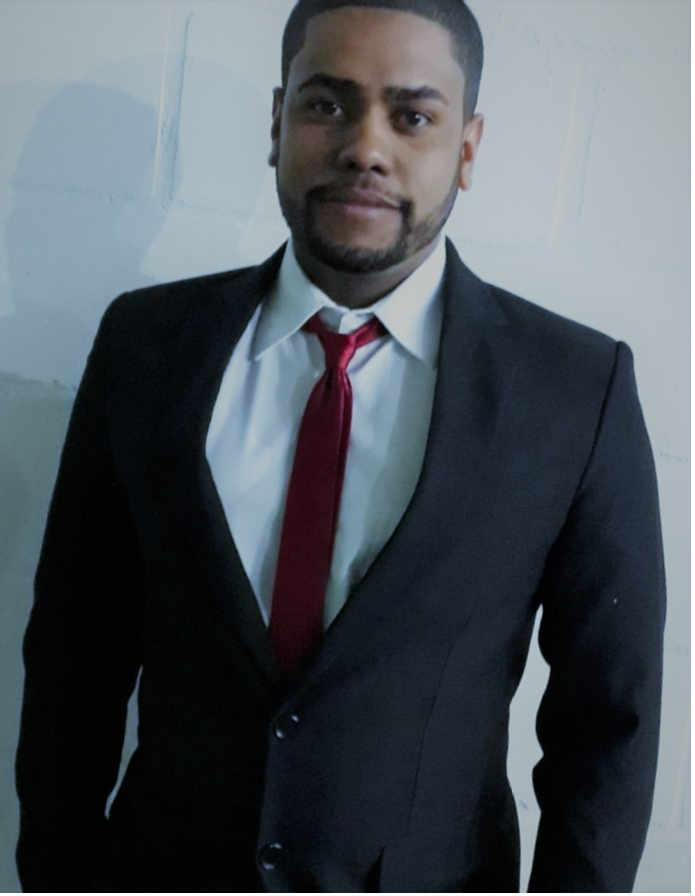
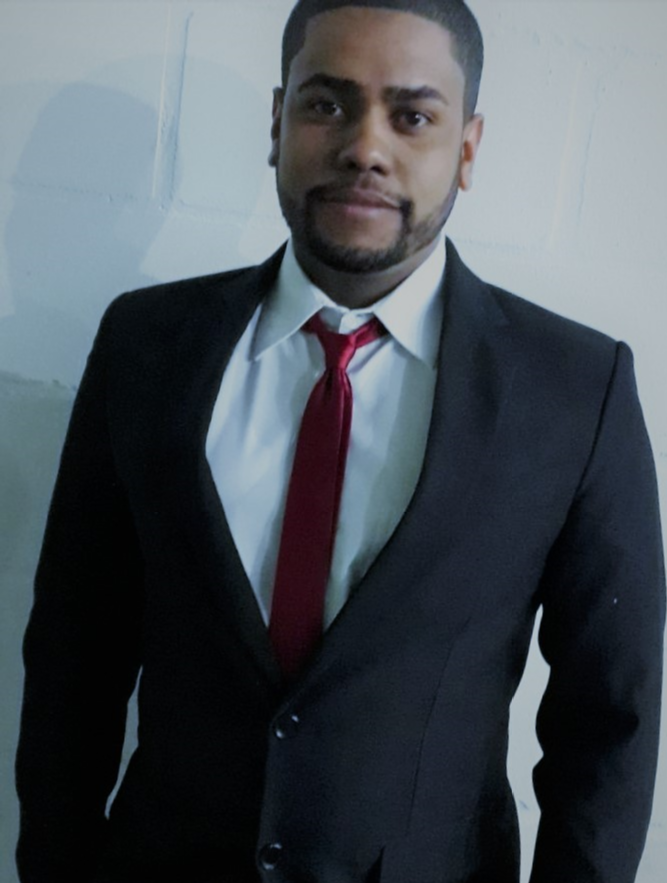
Auto-generated commit

diff --git a/index.csr.html b/index.csr.html
@@ -26,5 +26,5 @@
 <style>:root{--fa-style-family-brands:"Font Awesome 6 Brands";--fa-font-brands:normal 400 1em/1 "Font Awesome 6 Brands"}@font-face{font-family:"Font Awesome 6 Brands";font-style:normal;font-weight:400;font-display:block;src:url("./media/fa-brands-400-Q3XCMWHQ.woff2") format("woff2"),url("./media/fa-brands-400-R2XQZCET.ttf") format("truetype")}:root{--fa-font-regular:normal 400 1em/1 "Font Awesome 6 Free"}@font-face{font-family:"Font Awesome 6 Free";font-style:normal;font-weight:400;font-display:block;src:url("./media/fa-regular-400-QSNYFYRT.woff2") format("woff2"),url("./media/fa-regular-400-XUOPSR7E.ttf") format("truetype")}:root{--fa-style-family-classic:"Font Awesome 6 Free";--fa-font-solid:normal 900 1em/1 "Font Awesome 6 Free"}@font-face{font-family:"Font Awesome 6 Free";font-style:normal;font-weight:900;font-display:block;src:url("./media/fa-solid-900-5ZUYHGA7.woff2") format("woff2"),url("./media/fa-solid-900-PJNKLK6W.ttf") format("truetype")}:root{--bs-blue:#0d6efd;--bs-indigo:#6610f2;--bs-purple:#6f42c1;--bs-pink:#d63384;--bs-red:#dc3545;--bs-orange:#fd7e14;--bs-yellow:#ffc107;--bs-green:#198754;--bs-teal:#20c997;--bs-cyan:#0dcaf0;--bs-black:#000;--bs-white:#fff;--bs-gray:#6c757d;--bs-gray-dark:#343a40;--bs-gray-100:#f8f9fa;--bs-gray-200:#e9ecef;--bs-gray-300:#dee2e6;--bs-gray-400:#ced4da;--bs-gray-500:#adb5bd;--bs-gray-600:#6c757d;--bs-gray-700:#495057;--bs-gray-800:#343a40;--bs-gray-900:#212529;--bs-primary:#0d6efd;--bs-secondary:#6c757d;--bs-success:#198754;--bs-info:#0dcaf0;--bs-warning:#ffc107;--bs-danger:#dc3545;--bs-light:#f8f9fa;--bs-dark:#212529;--bs-primary-rgb:13,110,253;--bs-secondary-rgb:108,117,125;--bs-success-rgb:25,135,84;--bs-info-rgb:13,202,240;--bs-warning-rgb:255,193,7;--bs-danger-rgb:220,53,69;--bs-light-rgb:248,249,250;--bs-dark-rgb:33,37,41;--bs-primary-text-emphasis:#052c65;--bs-secondary-text-emphasis:#2b2f32;--bs-success-text-emphasis:#0a3622;--bs-info-text-emphasis:#055160;--bs-warning-text-emphasis:#664d03;--bs-danger-text-emphasis:#58151c;--bs-light-text-emphasis:#495057;--bs-dark-text-emphasis:#495057;--bs-primary-bg-subtle:#cfe2ff;--bs-secondary-bg-subtle:#e2e3e5;--bs-success-bg-subtle:#d1e7dd;--bs-info-bg-subtle:#cff4fc;--bs-warning-bg-subtle:#fff3cd;--bs-danger-bg-subtle:#f8d7da;--bs-light-bg-subtle:#fcfcfd;--bs-dark-bg-subtle:#ced4da;--bs-primary-border-subtle:#9ec5fe;--bs-secondary-border-subtle:#c4c8cb;--bs-success-border-subtle:#a3cfbb;--bs-info-border-subtle:#9eeaf9;--bs-warning-border-subtle:#ffe69c;--bs-danger-border-subtle:#f1aeb5;--bs-light-border-subtle:#e9ecef;--bs-dark-border-subtle:#adb5bd;--bs-white-rgb:255,255,255;--bs-black-rgb:0,0,0;--bs-font-sans-serif:system-ui,-apple-system,"Segoe UI",Roboto,"Helvetica Neue","Noto Sans","Liberation Sans",Arial,sans-serif,"Apple Color Emoji","Segoe UI Emoji","Segoe UI Symbol","Noto Color Emoji";--bs-font-monospace:SFMono-Regular,Menlo,Monaco,Consolas,"Liberation Mono","Courier New",monospace;--bs-gradient:linear-gradient(180deg, rgba(255, 255, 255, .15), rgba(255, 255, 255, 0));--bs-body-font-family:var(--bs-font-sans-serif);--bs-body-font-size:1rem;--bs-body-font-weight:400;--bs-body-line-height:1.5;--bs-body-color:#212529;--bs-body-color-rgb:33,37,41;--bs-body-bg:#fff;--bs-body-bg-rgb:255,255,255;--bs-emphasis-color:#000;--bs-emphasis-color-rgb:0,0,0;--bs-secondary-color:rgba(33, 37, 41, .75);--bs-secondary-color-rgb:33,37,41;--bs-secondary-bg:#e9ecef;--bs-secondary-bg-rgb:233,236,239;--bs-tertiary-color:rgba(33, 37, 41, .5);--bs-tertiary-color-rgb:33,37,41;--bs-tertiary-bg:#f8f9fa;--bs-tertiary-bg-rgb:248,249,250;--bs-heading-color:inherit;--bs-link-color:#0d6efd;--bs-link-color-rgb:13,110,253;--bs-link-decoration:underline;--bs-link-hover-color:#0a58ca;--bs-link-hover-color-rgb:10,88,202;--bs-code-color:#d63384;--bs-highlight-color:#212529;--bs-highlight-bg:#fff3cd;--bs-border-width:1px;--bs-border-style:solid;--bs-border-color:#dee2e6;--bs-border-color-translucent:rgba(0, 0, 0, .175);--bs-border-radius:.375rem;--bs-border-radius-sm:.25rem;--bs-border-radius-lg:.5rem;--bs-border-radius-xl:1rem;--bs-border-radius-xxl:2rem;--bs-border-radius-2xl:var(--bs-border-radius-xxl);--bs-border-radius-pill:50rem;--bs-box-shadow:0 .5rem 1rem rgba(0, 0, 0, .15);--bs-box-shadow-sm:0 .125rem .25rem rgba(0, 0, 0, .075);--bs-box-shadow-lg:0 1rem 3rem rgba(0, 0, 0, .175);--bs-box-shadow-inset:inset 0 1px 2px rgba(0, 0, 0, .075);--bs-focus-ring-width:.25rem;--bs-focus-ring-opacity:.25;--bs-focus-ring-color:rgba(13, 110, 253, .25);--bs-form-valid-color:#198754;--bs-form-valid-border-color:#198754;--bs-form-invalid-color:#dc3545;--bs-form-invalid-border-color:#dc3545}*,:after,:before{box-sizing:border-box}@media (prefers-reduced-motion:no-preference){:root{scroll-behavior:smooth}}body{margin:0;font-family:var(--bs-body-font-family);font-size:var(--bs-body-font-size);font-weight:var(--bs-body-font-weight);line-height:var(--bs-body-line-height);color:var(--bs-body-color);text-align:var(--bs-body-text-align);background-color:var(--bs-body-bg);-webkit-text-size-adjust:100%;-webkit-tap-highlight-color:transparent}:root{--bs-breakpoint-xs:0;--bs-breakpoint-sm:576px;--bs-breakpoint-md:768px;--bs-breakpoint-lg:992px;--bs-breakpoint-xl:1200px;--bs-breakpoint-xxl:1400px}@font-face{font-family:Exo;font-style:normal;font-weight:300;font-display:swap;src:url(https://fonts.gstatic.com/s/exo/v25/4UaOrEtFpBISfH6jyDM.woff2) format("woff2");unicode-range:U+0102-0103,U+0110-0111,U+0128-0129,U+0168-0169,U+01A0-01A1,U+01AF-01B0,U+0300-0301,U+0303-0304,U+0308-0309,U+0323,U+0329,U+1EA0-1EF9,U+20AB}@font-face{font-family:Exo;font-style:normal;font-weight:300;font-display:swap;src:url(https://fonts.gstatic.com/s/exo/v25/4UaOrEtFpBISfX6jyDM.woff2) format("woff2");unicode-range:U+0100-02BA,U+02BD-02C5,U+02C7-02CC,U+02CE-02D7,U+02DD-02FF,U+0304,U+0308,U+0329,U+1D00-1DBF,U+1E00-1E9F,U+1EF2-1EFF,U+2020,U+20A0-20AB,U+20AD-20C0,U+2113,U+2C60-2C7F,U+A720-A7FF}@font-face{font-family:Exo;font-style:normal;font-weight:300;font-display:swap;src:url(https://fonts.gstatic.com/s/exo/v25/4UaOrEtFpBISc36j.woff2) format("woff2");unicode-range:U+0000-00FF,U+0131,U+0152-0153,U+02BB-02BC,U+02C6,U+02DA,U+02DC,U+0304,U+0308,U+0329,U+2000-206F,U+20AC,U+2122,U+2191,U+2193,U+2212,U+2215,U+FEFF,U+FFFD}@font-face{font-family:Exo;font-style:normal;font-weight:400;font-display:swap;src:url(https://fonts.gstatic.com/s/exo/v25/4UaOrEtFpBISfH6jyDM.woff2) format("woff2");unicode-range:U+0102-0103,U+0110-0111,U+0128-0129,U+0168-0169,U+01A0-01A1,U+01AF-01B0,U+0300-0301,U+0303-0304,U+0308-0309,U+0323,U+0329,U+1EA0-1EF9,U+20AB}@font-face{font-family:Exo;font-style:normal;font-weight:400;font-display:swap;src:url(https://fonts.gstatic.com/s/exo/v25/4UaOrEtFpBISfX6jyDM.woff2) format("woff2");unicode-range:U+0100-02BA,U+02BD-02C5,U+02C7-02CC,U+02CE-02D7,U+02DD-02FF,U+0304,U+0308,U+0329,U+1D00-1DBF,U+1E00-1E9F,U+1EF2-1EFF,U+2020,U+20A0-20AB,U+20AD-20C0,U+2113,U+2C60-2C7F,U+A720-A7FF}@font-face{font-family:Exo;font-style:normal;font-weight:400;font-display:swap;src:url(https://fonts.gstatic.com/s/exo/v25/4UaOrEtFpBISc36j.woff2) format("woff2");unicode-range:U+0000-00FF,U+0131,U+0152-0153,U+02BB-02BC,U+02C6,U+02DA,U+02DC,U+0304,U+0308,U+0329,U+2000-206F,U+20AC,U+2122,U+2191,U+2193,U+2212,U+2215,U+FEFF,U+FFFD}@font-face{font-family:Exo;font-style:normal;font-weight:500;font-display:swap;src:url(https://fonts.gstatic.com/s/exo/v25/4UaOrEtFpBISfH6jyDM.woff2) format("woff2");unicode-range:U+0102-0103,U+0110-0111,U+0128-0129,U+0168-0169,U+01A0-01A1,U+01AF-01B0,U+0300-0301,U+0303-0304,U+0308-0309,U+0323,U+0329,U+1EA0-1EF9,U+20AB}@font-face{font-family:Exo;font-style:normal;font-weight:500;font-display:swap;src:url(https://fonts.gstatic.com/s/exo/v25/4UaOrEtFpBISfX6jyDM.woff2) format("woff2");unicode-range:U+0100-02BA,U+02BD-02C5,U+02C7-02CC,U+02CE-02D7,U+02DD-02FF,U+0304,U+0308,U+0329,U+1D00-1DBF,U+1E00-1E9F,U+1EF2-1EFF,U+2020,U+20A0-20AB,U+20AD-20C0,U+2113,U+2C60-2C7F,U+A720-A7FF}@font-face{font-family:Exo;font-style:normal;font-weight:500;font-display:swap;src:url(https://fonts.gstatic.com/s/exo/v25/4UaOrEtFpBISc36j.woff2) format("woff2");unicode-range:U+0000-00FF,U+0131,U+0152-0153,U+02BB-02BC,U+02C6,U+02DA,U+02DC,U+0304,U+0308,U+0329,U+2000-206F,U+20AC,U+2122,U+2191,U+2193,U+2212,U+2215,U+FEFF,U+FFFD}@font-face{font-family:Exo;font-style:normal;font-weight:600;font-display:swap;src:url(https://fonts.gstatic.com/s/exo/v25/4UaOrEtFpBISfH6jyDM.woff2) format("woff2");unicode-range:U+0102-0103,U+0110-0111,U+0128-0129,U+0168-0169,U+01A0-01A1,U+01AF-01B0,U+0300-0301,U+0303-0304,U+0308-0309,U+0323,U+0329,U+1EA0-1EF9,U+20AB}@font-face{font-family:Exo;font-style:normal;font-weight:600;font-display:swap;src:url(https://fonts.gstatic.com/s/exo/v25/4UaOrEtFpBISfX6jyDM.woff2) format("woff2");unicode-range:U+0100-02BA,U+02BD-02C5,U+02C7-02CC,U+02CE-02D7,U+02DD-02FF,U+0304,U+0308,U+0329,U+1D00-1DBF,U+1E00-1E9F,U+1EF2-1EFF,U+2020,U+20A0-20AB,U+20AD-20C0,U+2113,U+2C60-2C7F,U+A720-A7FF}@font-face{font-family:Exo;font-style:normal;font-weight:600;font-display:swap;src:url(https://fonts.gstatic.com/s/exo/v25/4UaOrEtFpBISc36j.woff2) format("woff2");unicode-range:U+0000-00FF,U+0131,U+0152-0153,U+02BB-02BC,U+02C6,U+02DA,U+02DC,U+0304,U+0308,U+0329,U+2000-206F,U+20AC,U+2122,U+2191,U+2193,U+2212,U+2215,U+FEFF,U+FFFD}@font-face{font-family:Exo;font-style:normal;font-weight:700;font-display:swap;src:url(https://fonts.gstatic.com/s/exo/v25/4UaOrEtFpBISfH6jyDM.woff2) format("woff2");unicode-range:U+0102-0103,U+0110-0111,U+0128-0129,U+0168-0169,U+01A0-01A1,U+01AF-01B0,U+0300-0301,U+0303-0304,U+0308-0309,U+0323,U+0329,U+1EA0-1EF9,U+20AB}@font-face{font-family:Exo;font-style:normal;font-weight:700;font-display:swap;src:url(https://fonts.gstatic.com/s/exo/v25/4UaOrEtFpBISfX6jyDM.woff2) format("woff2");unicode-range:U+0100-02BA,U+02BD-02C5,U+02C7-02CC,U+02CE-02D7,U+02DD-02FF,U+0304,U+0308,U+0329,U+1D00-1DBF,U+1E00-1E9F,U+1EF2-1EFF,U+2020,U+20A0-20AB,U+20AD-20C0,U+2113,U+2C60-2C7F,U+A720-A7FF}@font-face{font-family:Exo;font-style:normal;font-weight:700;font-display:swap;src:url(https://fonts.gstatic.com/s/exo/v25/4UaOrEtFpBISc36j.woff2) format("woff2");unicode-range:U+0000-00FF,U+0131,U+0152-0153,U+02BB-02BC,U+02C6,U+02DA,U+02DC,U+0304,U+0308,U+0329,U+2000-206F,U+20AC,U+2122,U+2191,U+2193,U+2212,U+2215,U+FEFF,U+FFFD}@font-face{font-family:Exo;font-style:normal;font-weight:800;font-display:swap;src:url(https://fonts.gstatic.com/s/exo/v25/4UaOrEtFpBISfH6jyDM.woff2) format("woff2");unicode-range:U+0102-0103,U+0110-0111,U+0128-0129,U+0168-0169,U+01A0-01A1,U+01AF-01B0,U+0300-0301,U+0303-0304,U+0308-0309,U+0323,U+0329,U+1EA0-1EF9,U+20AB}@font-face{font-family:Exo;font-style:normal;font-weight:800;font-display:swap;src:url(https://fonts.gstatic.com/s/exo/v25/4UaOrEtFpBISfX6jyDM.woff2) format("woff2");unicode-range:U+0100-02BA,U+02BD-02C5,U+02C7-02CC,U+02CE-02D7,U+02DD-02FF,U+0304,U+0308,U+0329,U+1D00-1DBF,U+1E00-1E9F,U+1EF2-1EFF,U+2020,U+20A0-20AB,U+20AD-20C0,U+2113,U+2C60-2C7F,U+A720-A7FF}@font-face{font-family:Exo;font-style:normal;font-weight:800;font-display:swap;src:url(https://fonts.gstatic.com/s/exo/v25/4UaOrEtFpBISc36j.woff2) format("woff2");unicode-range:U+0000-00FF,U+0131,U+0152-0153,U+02BB-02BC,U+02C6,U+02DA,U+02DC,U+0304,U+0308,U+0329,U+2000-206F,U+20AC,U+2122,U+2191,U+2193,U+2212,U+2215,U+FEFF,U+FFFD}@font-face{font-family:Exo;font-style:normal;font-weight:900;font-display:swap;src:url(https://fonts.gstatic.com/s/exo/v25/4UaOrEtFpBISfH6jyDM.woff2) format("woff2");unicode-range:U+0102-0103,U+0110-0111,U+0128-0129,U+0168-0169,U+01A0-01A1,U+01AF-01B0,U+0300-0301,U+0303-0304,U+0308-0309,U+0323,U+0329,U+1EA0-1EF9,U+20AB}@font-face{font-family:Exo;font-style:normal;font-weight:900;font-display:swap;src:url(https://fonts.gstatic.com/s/exo/v25/4UaOrEtFpBISfX6jyDM.woff2) format("woff2");unicode-range:U+0100-02BA,U+02BD-02C5,U+02C7-02CC,U+02CE-02D7,U+02DD-02FF,U+0304,U+0308,U+0329,U+1D00-1DBF,U+1E00-1E9F,U+1EF2-1EFF,U+2020,U+20A0-20AB,U+20AD-20C0,U+2113,U+2C60-2C7F,U+A720-A7FF}@font-face{font-family:Exo;font-style:normal;font-weight:900;font-display:swap;src:url(https://fonts.gstatic.com/s/exo/v25/4UaOrEtFpBISc36j.woff2) format("woff2");unicode-range:U+0000-00FF,U+0131,U+0152-0153,U+02BB-02BC,U+02C6,U+02DA,U+02DC,U+0304,U+0308,U+0329,U+2000-206F,U+20AC,U+2122,U+2191,U+2193,U+2212,U+2215,U+FEFF,U+FFFD}:root{--bg-primary:#050816;--bg-secondary:#0a0d1a;--bg-card:#0d1025;--bg-glass:rgba(10, 13, 26, .6);--bg-glass-strong:rgba(10, 13, 26, .85);--green:#00ff88;--green-bright:#14e956;--green-dim:rgba(0, 255, 136, .15);--green-glow:rgba(0, 255, 136, .25);--green-subtle:rgba(0, 255, 136, .06);--text-primary:#f0f2f5;--text-secondary:rgba(240, 242, 245, .7);--text-muted:#6b7280;--border-subtle:rgba(255, 255, 255, .06);--border-light:rgba(255, 255, 255, .1);--border-glow:rgba(0, 255, 136, .2);--radius-sm:6px;--radius-md:10px;--radius-lg:16px;--radius-xl:24px;--shadow-card:0 4px 24px rgba(0, 0, 0, .3);--shadow-elevated:0 8px 40px rgba(0, 0, 0, .45);--shadow-glow:0 0 30px rgba(0, 255, 136, .1);--shadow-glow-strong:0 0 50px rgba(0, 255, 136, .2);--ease-out-expo:cubic-bezier(.16, 1, .3, 1);--ease-spring:cubic-bezier(.34, 1.56, .64, 1)}*,*:before,*:after{box-sizing:border-box}html{scroll-behavior:smooth;font-size:16px}body{-webkit-font-smoothing:antialiased;-moz-osx-font-smoothing:grayscale;background:var(--bg-primary);color:var(--text-primary);font-family:Exo,sans-serif;margin:0;padding:0;overflow-x:hidden}body,html{cursor:url("./media/arrowPoint-ZXT4FAWQ.svg") 15 15,move;height:100%;width:100%}</style><link rel="stylesheet" href="styles-RY6OKHS7.css" media="print" onload="this.media='all'"><noscript><link rel="stylesheet" href="styles-RY6OKHS7.css"></noscript></head>
 <body ngcm="">
   <app-root></app-root>
-<script src="polyfills-FFHMD2TL.js" type="module"></script><script src="main-QRTY3DZP.js" type="module"></script></body>
+<script src="polyfills-FFHMD2TL.js" type="module"></script><script src="main-G2PMJ3KG.js" type="module"></script></body>
 </html>